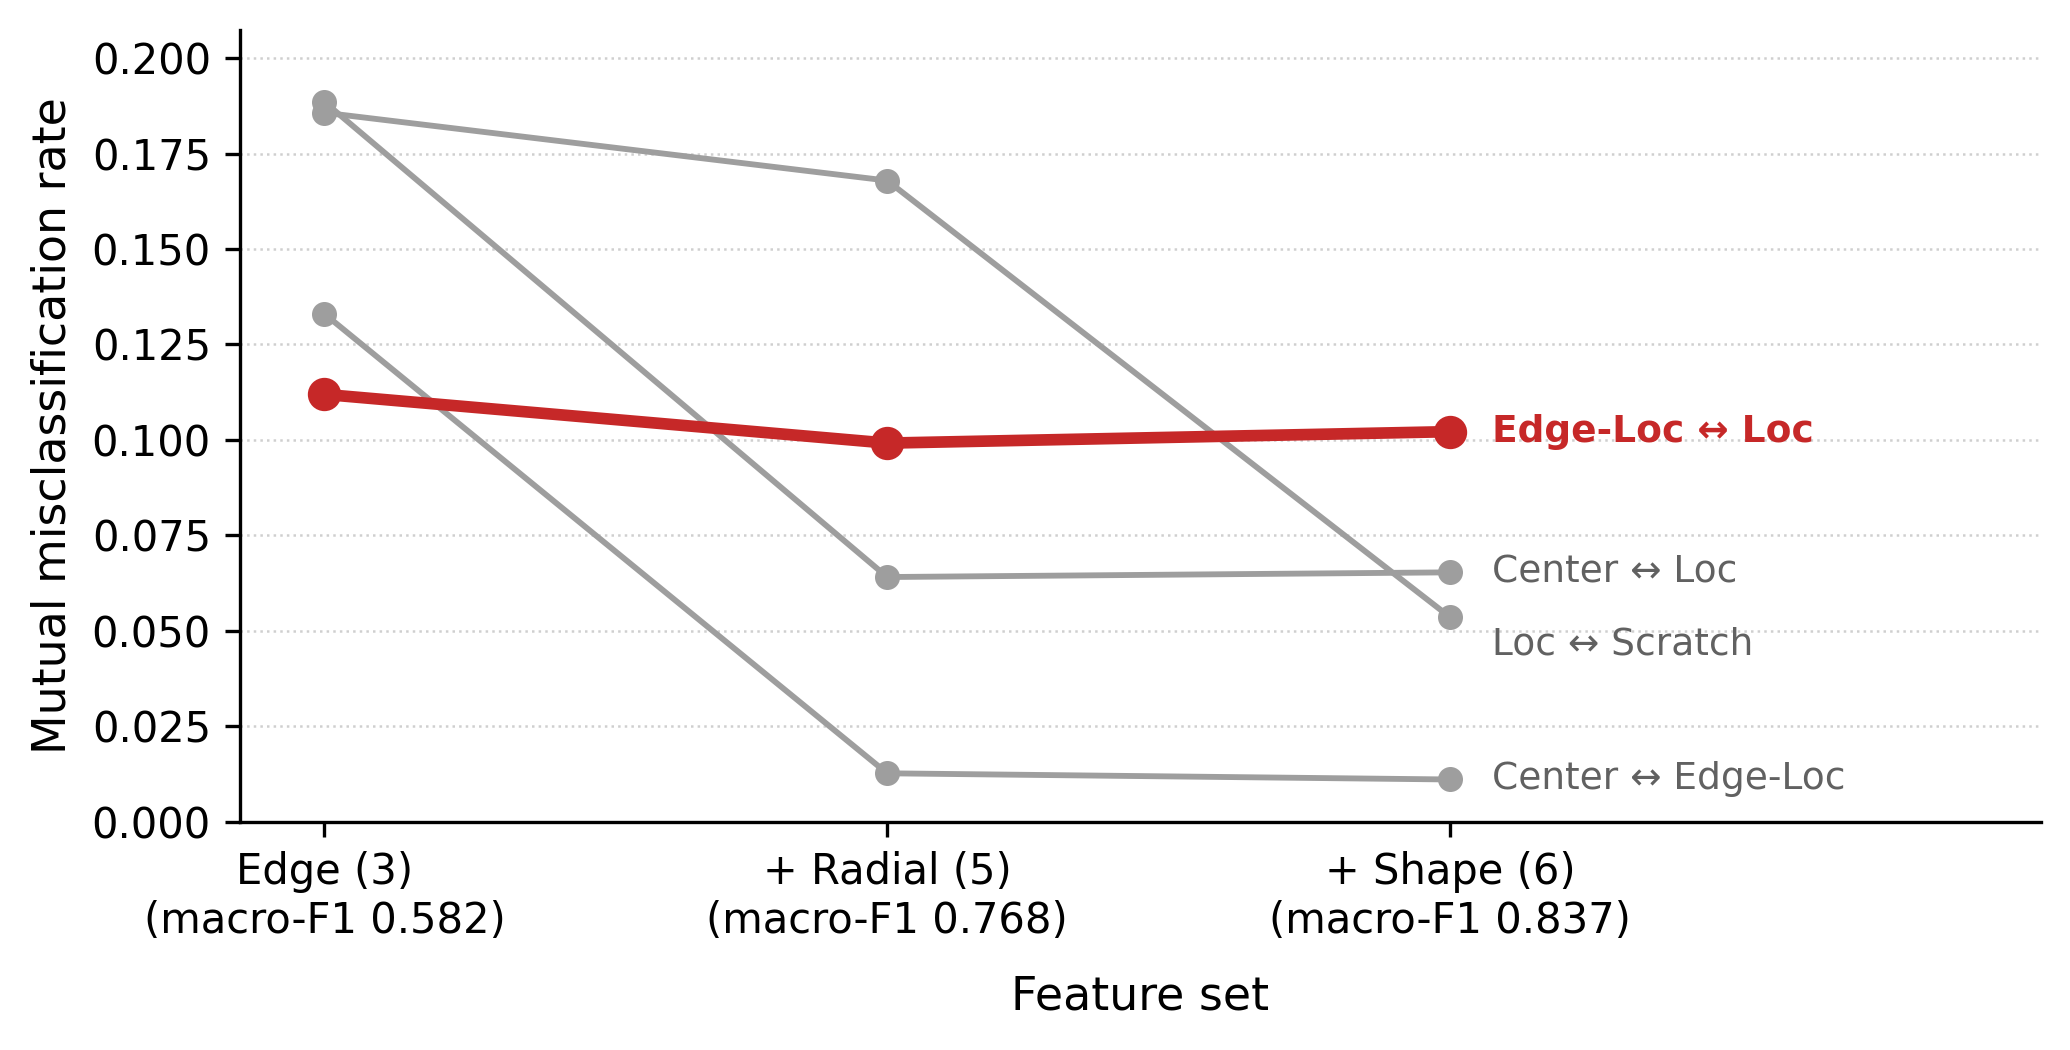
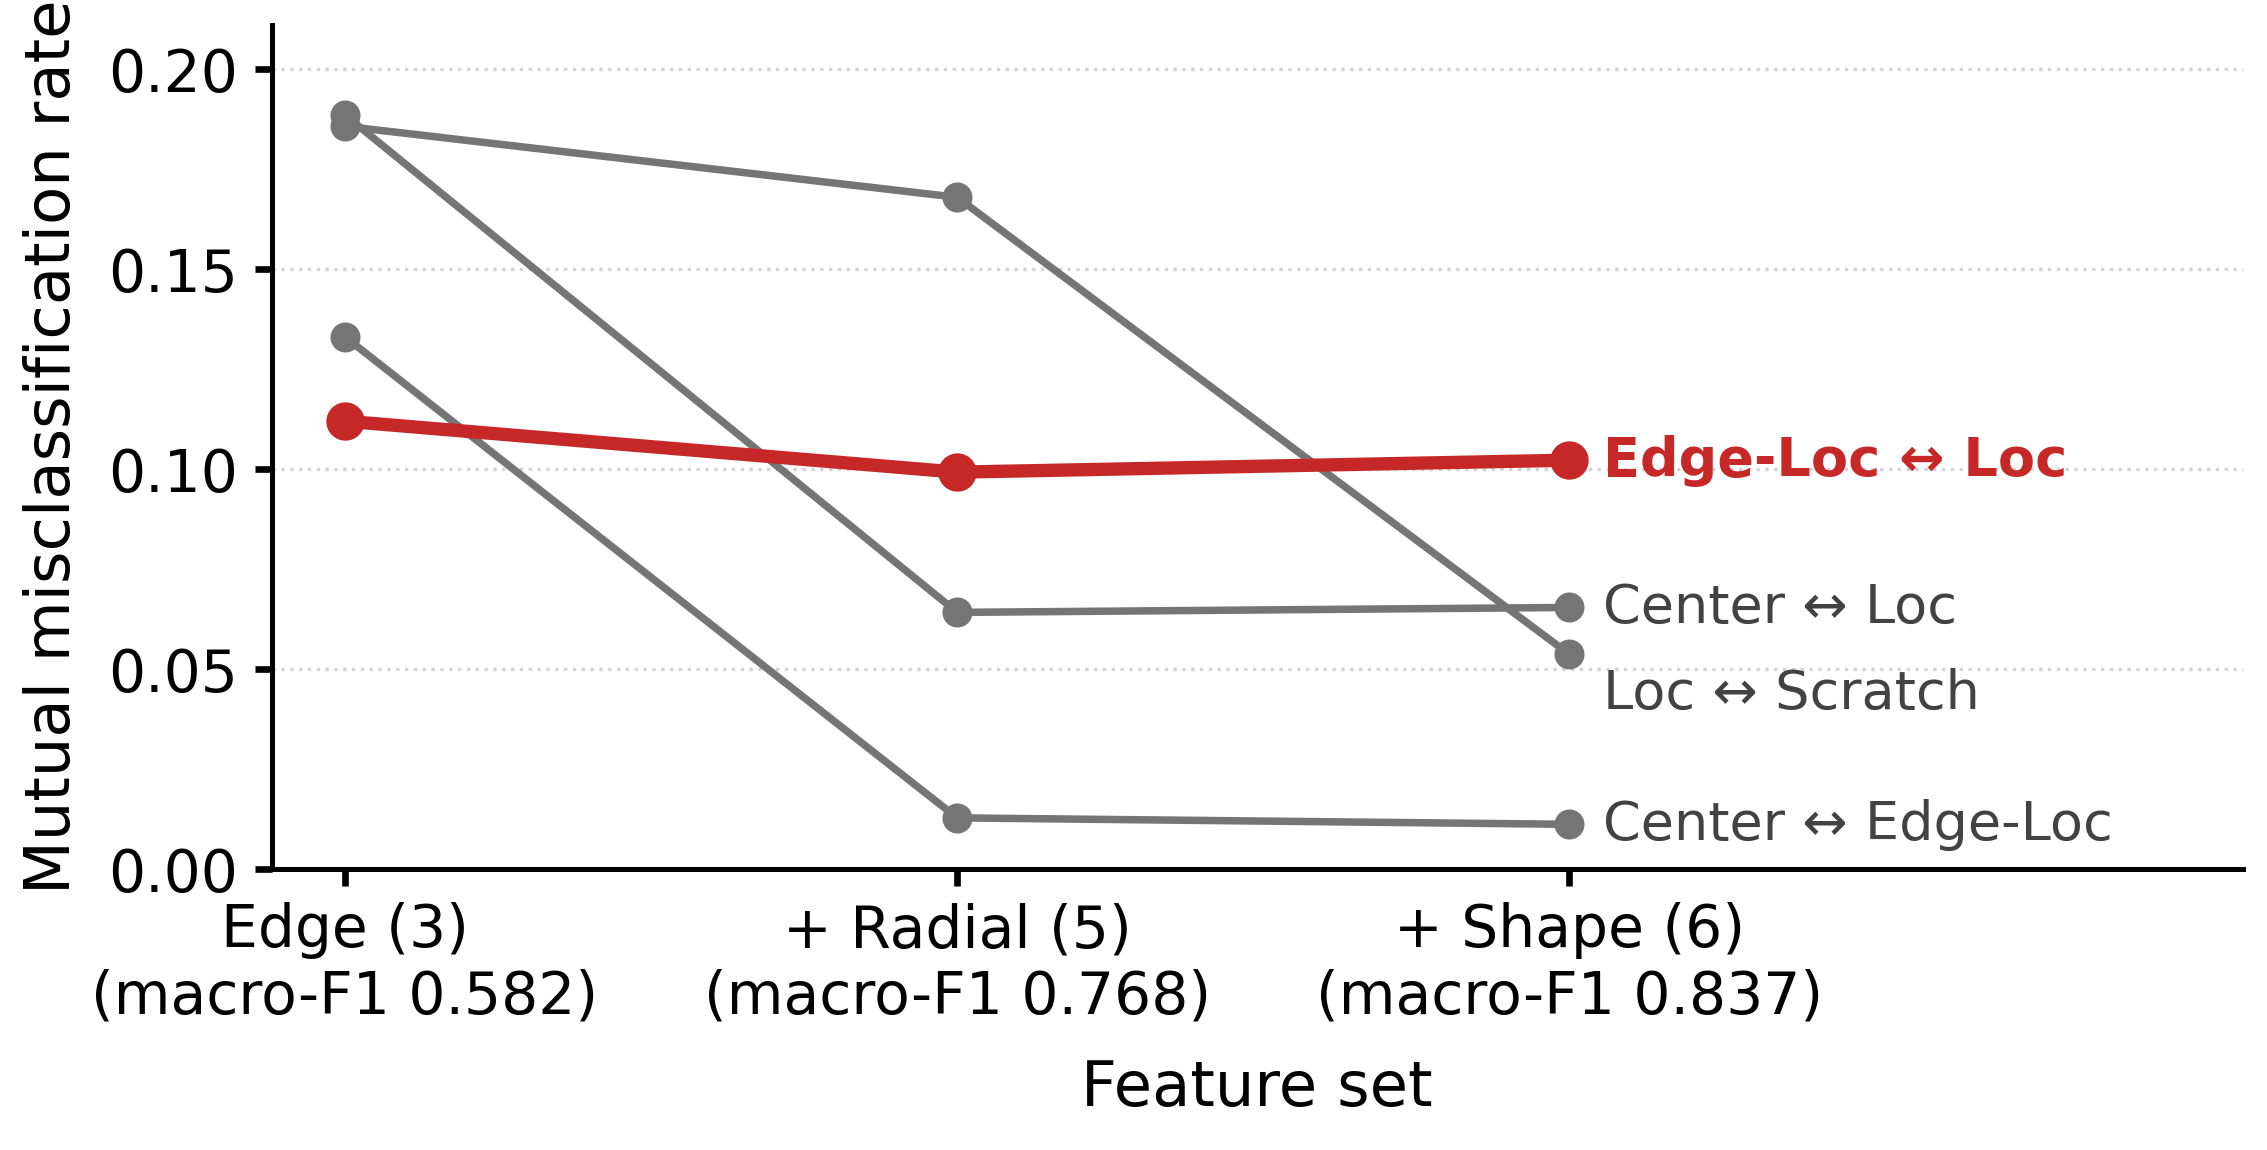
fig: Figure 1을 최종 인쇄 치수로 다시 그려 라벨 4.9pt -> 6.5pt (지면 점유 동일)
PDF는 읽혔지만 원인을 따지니 figsize=(7.0,3.6)을 DOC에 9.6cm로 넣어 축소율 0.548이 걸려 있었다. 코드의 fontsize=9가 종이에서는 4.9pt였다 - 로드맵 4장이 '눈금 5pt 가독'을 확인 항목으로 남긴 것이 이 지점이다.

해법은 폰트를 키우는 게 아니라 캔버스를 인쇄 치수(9.6 x 4.87 cm)로 잡아 축소율을 1로 만드는 것이다. 좌표계를 맞춘 것이라 지면 점유는 1px도 늘지 않는다. 딸려온 것: bbox_inches='tight' 제거(저장 폭 = figsize x dpi 보장), 선 굵기/마커 하향(축소율 1이면 lw도 절대 pt), y눈금 9->5개, dpi 300->600.

넣었다 뺀 것: 강조선 끝의 0.102 값 라벨. 굵은 쌍 이름 바로 위에 놓여 둘이 한 덩어리로 읽혔다. 좁은 그림에서 요소를 더하는 것은 가독성을 깎는다 - 이 그림의 주장은 숫자가 아니라 '한 선만 평평하다'다.

일반화된 교훈: 라벨 간격이 ymax*0.075라는 데이터 비율이었는데 캔버스를 줄이자 6.9pt가 되어 Center-Loc과 Loc-Scratch 라벨이 붙었다. 비율은 크기가 바뀌면 따라오지 않는다 -> transData로 pt를 데이터 단위로 환산하도록 변경.

결과: 수치 전부 동일(0.582/0.768/0.837). bottleneck_shift.txt가 무변경으로 남은 것이 그 증거다 - 그림만 바뀌었고 주장은 그대로다. 제출본에는 아직 미반영(마감 10/23 전 수정 가능).

docs: D-019의 '이유'를 사용자 근거로 채웠다 - AI 추정이 틀린 종류였다

v4.1까지 적혀 있던 추정은 '이력서 서술은 어느 쪽이든 같으니 채택 확률만 낮아진다'는 기대값 계산이었다. 실제 근거는 심사 기준과의 정합성이다: 랩 단위 과제가 아니라 공개 데이터만으로 사고 과정을 재현한 연구이므로, 자원 규모로 비교되는 일반 세션이 아니라 판단 과정을 보는 학부생 포스터세션에서 평가받는 것이 맞다.

전자는 '질 것 같아서 쉬운 쪽으로 갔다'로, 후자는 '평가 기준을 먼저 보고 자리를 골랐다'로 읽힌다. 면접에서 정반대로 작동한다. '근거를 못 쓰면 임의값'이라는 원칙이 세션 선택에도 적용된 사례로 기록했다.

diff --git a/src/fig_bottleneck.py b/src/fig_bottleneck.py
@@ -21,22 +21,51 @@
 - **`Edge-Loc↔Loc`만 강조**, 나머지는 흐리게. 그 하나가 결론이므로
 - **축 라벨은 영문** (로드맵 §4)
 
+## 크기 — 최종 인쇄 치수로 그린다 (2026-08-20 개정)
+
+**이전 판은 `figsize=(7.0, 3.6)`으로 그려 DOC에 9.6 cm(=3.78 in) 폭으로 넣었다.**
+축소율이 **0.548**이라 코드의 pt가 그대로 인쇄되지 않았다 —
+끝점 라벨 9 pt → **실제 4.9 pt**, 눈금 10 pt → 5.5 pt.
+로드맵 §4가 *"그림 눈금 5pt 가독"*을 확인 항목으로 남긴 것이 이 지점이다.
+
+**해법은 폰트를 키우는 게 아니라 캔버스를 최종 치수로 잡는 것이다.**
+`figsize = (9.6cm, 4.87cm)`로 그리면 축소율이 1이 되고,
+**지면 점유는 그대로인 채 코드의 pt = 인쇄 pt**가 된다.
+같은 9.6 cm 안에서 끝점 라벨이 4.9 → 6.5 pt, 눈금이 5.5 → 7 pt로 커진다.
+
+두 가지가 여기에 딸려 온다.
+
+1. **`bbox_inches="tight"`를 쓰지 않는다.** 내용에 맞춰 잘라내면 저장된 폭이
+   `figsize`와 달라져 *"100%로 넣는다"*는 전제가 깨진다. `tight_layout`만 쓰고
+   그대로 저장해 **출력 픽셀 = figsize × dpi**를 보장한다.
+   끝점 라벨은 `xlim` 오른쪽 여백 안에 들어가므로 잘리지 않는다.
+2. **선 굵기·마커도 절대 pt다.** 축소율이 1이 되면 `lw=2.8`은 그대로 2.8 pt라
+   작은 그림에서 과하다. 굵기와 마커를 같이 내린다.
+
+**dpi는 600.** 작은 글자는 300 dpi에서 획이 뭉친다. 파일은 커지지만
+제출 제약은 **문서 2 MB**이고 PNG는 그 안에서 여유가 있다.
+
 ## 재현성
 
 수치를 하드코딩하지 않고 **캐시된 특징 + D-003 분할에서 매번 다시 계산한다.**
 seed 3개 평균이며, 같은 값이 `docs/abstract_draft.md`와 D-018에 인용돼 있다.
 → 그림과 본문 숫자가 갈라질 수 없다.
 """
+import sys
 import numpy as np
 import matplotlib
 matplotlib.use("Agg")
 import matplotlib.pyplot as plt
+from matplotlib.ticker import MultipleLocator
 from sklearn.ensemble import RandomForestClassifier
 from sklearn.metrics import confusion_matrix, f1_score
 
 import config
 
 plt.rcParams["font.family"] = "DejaVu Sans"      # 영문 라벨만 쓴다
+# Windows 콘솔은 cp949다. 출력을 파일로 넘기면 아래 한글 print가
+# UnicodeEncodeError로 죽는다 — 그림은 이미 저장된 뒤라 더 헷갈린다
+sys.stdout.reconfigure(encoding="utf-8", errors="replace")
 
 STAGES = [
     ("Edge (3)",      ("cov", "ctr", "cv")),
@@ -49,6 +78,16 @@ SHOW = [("Center", "Loc"), ("Loc", "Scratch"),
 HILITE = ("Edge-Loc", "Loc")
 
 OUT_DIR = config.ROOT / "figures" / "keep"
+
+# ── 인쇄 치수 — 여기가 이 그림의 유일한 크기 근거다 ──────────
+# 9.6 cm는 D-020에서 1페이지 실측으로 확정된 값이다. 바꾸지 않는다.
+# 높이는 이전 판의 지면 점유(9.6 × 1050/2070)를 그대로 유지한다.
+CM = 1 / 2.54
+PRINT_W_CM, PRINT_H_CM = 9.6, 4.87
+DPI = 600
+
+# 전부 인쇄 pt다 — 축소율이 1이므로 코드 값 = 종이 위 값
+FS_TICK, FS_AXIS, FS_LABEL, FS_XTICK = 7.0, 7.5, 6.5, 6.8
 
 
 def oof(X, y, folds):
@@ -105,21 +144,57 @@ def main():
 
     # ── 그림 ──────────────────────────────────────────────
     # 세로를 줄였다 — 초록은 텍스트가 대부분이라 그림이 납작해야 한다
-    fig, ax = plt.subplots(figsize=(7.0, 3.6))
+    fig, ax = plt.subplots(figsize=(PRINT_W_CM * CM, PRINT_H_CM * CM))
     xs = np.arange(len(STAGES))
     ymax = max(max(v) for v in rates.values())
 
+    # 회색을 이전 `#9e9e9e`보다 어둡게 잡는다 — 선이 얇아지면 같은 명도라도
+    # 종이에서 옅어 보인다. 강조 대비는 굵기가 이미 충분히 만든다
     for pr in SHOW:
         hot = pr == HILITE
         ax.plot(xs, rates[pr], "o-",
-                lw=2.8 if hot else 1.4, ms=7 if hot else 5,
-                color="#c62828" if hot else "#9e9e9e",
+                lw=1.6 if hot else 0.9, ms=3.6 if hot else 2.6,
+                color="#c62828" if hot else "#757575",
                 zorder=3 if hot else 2)
 
-    # 끝점 라벨 — 겹치면 세로로 밀어낸다.
+    # 값을 점 위에 찍어보고 **뺐다.** 강조 라벨 바로 위에 놓여 둘이 한 덩어리로
+    # 읽혔다. 좁은 그림에서 요소를 더하는 것은 가독성을 깎는다 —
+    # 잔여 병목의 크기는 y축 0.10 격자선이 이미 말해주고, 정확한 값은 본문에 있다.
+    # **이 그림의 주장은 숫자가 아니라 "한 선만 평평하다"다.**
+
+    # macro-F1을 x축 눈금 둘째 줄로 — 아래 여백을 먹지 않는다
+    ax.set_xticks(xs)
+    ax.set_xticklabels([f"{n}\n(macro-F1 {m:.3f})" for (n, _), m in zip(STAGES, macros)],
+                       fontsize=FS_XTICK)
+    # y 눈금을 9개에서 5개로 — 작은 그림에서 눈금 글자끼리 붙으면
+    # 개별 숫자가 커져도 덩어리로 읽힌다. 간격이 곧 가독성이다
+    ax.yaxis.set_major_locator(MultipleLocator(0.05))
+    ax.tick_params(labelsize=FS_TICK, length=2, pad=2)
+    ax.set_xlim(-0.12, len(STAGES) - 1 + 1.10)
+    ax.set_ylim(0, ymax * 1.12)
+    ax.set_xlabel("Feature set", fontsize=FS_AXIS, labelpad=4)
+    ax.set_ylabel("Mutual misclassification rate", fontsize=FS_AXIS, labelpad=3)
+    ax.grid(axis="y", ls=":", lw=0.4, alpha=0.55)
+    for sp in ("top", "right"):
+        ax.spines[sp].set_visible(False)
+    for sp in ("left", "bottom"):
+        ax.spines[sp].set_linewidth(0.6)
+
+    fig.tight_layout(pad=0.3)
+
+    # ── 끝점 라벨 — 레이아웃이 확정된 뒤에 놓는다 ───────────────
+    # 겹칠 때 밀어낼 간격은 **글자 크기에서 나와야 한다.**
+    # 이전 판은 `MIN_GAP = ymax * 0.075`라는 데이터 비율이었다. 캔버스를
+    # 인쇄 치수로 줄이자 같은 비율이 6.9 pt가 되어 `Center↔Loc`과
+    # `Loc↔Scratch`가 붙었다 — **비율은 크기가 바뀌면 따라오지 않는다.**
+    # 그려진 축에서 pt를 데이터 단위로 환산한다. 치수를 다시 바꿔도 유지된다.
+    fig.canvas.draw()
+    inv = ax.transData.inverted()
+    gap_px = FS_LABEL * 1.45 * fig.dpi / 72          # 행간 1.45배
+    MIN_GAP = abs(inv.transform((0, gap_px))[1] - inv.transform((0, 0))[1])
+
     # 구분자는 '↔'다. 클래스명에 하이픈이 있어 '–'를 쓰면
     # `Center–Edge-Loc`처럼 읽혀 쌍인지 이름인지 구분되지 않는다.
-    MIN_GAP = ymax * 0.075
     placed, y_lab = [], {}
     for pr in sorted(SHOW, key=lambda p: -rates[p][-1]):   # 위에서 아래로
         yv = rates[pr][-1]
@@ -131,27 +206,16 @@ def main():
     for pr in SHOW:
         hot = pr == HILITE
         ax.annotate(f"{pr[0]} ↔ {pr[1]}", (xs[-1], y_lab[pr]),
-                    xytext=(10, 0), textcoords="offset points",
-                    va="center", fontsize=9, annotation_clip=False,
-                    color="#c62828" if hot else "#616161",
+                    xytext=(4, 0), textcoords="offset points",
+                    va="center", fontsize=FS_LABEL, annotation_clip=False,
+                    color="#c62828" if hot else "#424242",
                     fontweight="bold" if hot else "normal")
 
-    # macro-F1을 x축 눈금 둘째 줄로 — 아래 여백을 먹지 않는다
-    ax.set_xticks(xs)
-    ax.set_xticklabels([f"{n}\n(macro-F1 {m:.3f})" for (n, _), m in zip(STAGES, macros)],
-                       fontsize=10)
-    ax.set_xlim(-0.15, len(STAGES) - 1 + 1.05)
-    ax.set_ylim(0, ymax * 1.10)
-    ax.set_xlabel("Feature set", fontsize=11, labelpad=8)
-    ax.set_ylabel("Mutual misclassification rate", fontsize=11)
-    ax.grid(axis="y", ls=":", lw=0.6, alpha=0.6)
-    for sp in ("top", "right"):
-        ax.spines[sp].set_visible(False)
-
-    fig.tight_layout()
     out = OUT_DIR / "bottleneck_shift.png"
-    fig.savefig(out, dpi=300, bbox_inches="tight")
-    print(f"저장: {out}")
+    # bbox_inches="tight"를 쓰지 않는다 — 저장 폭 = figsize × dpi여야
+    # DOC에 9.6 cm로 넣었을 때 축소율이 정확히 1이 된다
+    fig.savefig(out, dpi=DPI)
+    print(f"저장: {out}  ({PRINT_W_CM} × {PRINT_H_CM} cm @ {DPI} dpi, 축소율 1.0)")
     print("\n  읽는 법: 세 선은 내려가고 **강조된 한 선만 평평하다.**")
     print("  그 하나가 D-018의 결론 — 남은 병목은 특징 부재가 아니라")
     print("  두 패턴 사이에 경계가 없어서 남는다.")

diff --git a/docs/decisions.md b/docs/decisions.md
@@ -1008,17 +1008,35 @@ Center 1.08로 **차이가 없었다.** 배경 산발이 주축을 등방으로 
   - (A) **일반 트랙** — 교수 연구실 과제들과 같은 심사 풀에 들어간다
   - (B) **학부생 포스터세션** — 학부생 대상 분과별 별도 심사
 - 선택: **B**
-- 이유: **(미기재 — 사용자 근거로 교체할 것.)** 2026-08-20 대화에서 사용자는
-  *"지도교수 컨택을 하더라도 학부생 세션으로 지원하겠다"*고 확정했으나
-  **내부 근거를 아직 받지 못했다.** 아래는 AI 추정이며 **그대로 면접에서 쓰면 안 된다**:
-  단독·학부생 연구를 일반 트랙에 넣으면 랩 단위 과제와 같은 잣대로 심사받고,
-  이력서 서술은 어느 쪽이든 "학술대회 발표"로 동일하다 → 채택 확률만 낮아진다.
-- 버린 이유: (A)는 채택될 경우 구두 발표 가능성이 있고 "일반 세션 통과"라는
-  서술이 더 세다. **(미기재 — 확인 필요)**
+- 이유: **(2026-08-20 사용자 근거로 확정)**
+  이 연구는 **랩 단위 과제가 아니다.** 장비도 사내 데이터도 없이 **공개 데이터셋
+  하나만으로**, 엔지니어링 사고 과정 자체를 재현하는 데 집중해 혼자 진행했다.
+  **그렇다면 평가받아야 할 것도 그 사고 과정이다.**
+  일반 세션은 연구실 과제들과 같은 풀에서 겨루는 자리이고, 그 자리의 잣대는
+  **자원(장비·데이터·인력)이 뒷받침하는 결과의 크기**다. 이 프로젝트의 실질
+  ─ *"병목이 어디로 왜 이동했는지 안다"*(D-018) ─ 은 그 잣대에서는 보이지 않는다.
+  **학부생 포스터세션이 이 연구의 성격에 맞는 심사 기준을 가진 자리다.**
+  → 세션 선택은 **채택 가능성 계산이 아니라 평가 기준과의 정합성 판단**이다.
+
+  > ⚠ **AI 추정이 틀린 종류였다 — 기록으로 남긴다.**
+  > v4.1까지 이 칸에 적혀 있던 추정은 *"어느 쪽이든 이력서 서술은 같으니
+  > 채택 확률만 낮아진다"*, 즉 **기대값 계산**이었다.
+  > 사용자의 실제 근거는 **심사 기준의 정합성**으로 층이 다르다.
+  > 전자는 *"질 것 같아서 쉬운 쪽으로 갔다"*로 읽히고, 후자는 *"평가 기준을
+  > 먼저 보고 자리를 골랐다"*로 읽힌다. **면접에서 이 둘은 정반대로 작동한다.**
+  > §3의 *"근거를 못 쓰면 임의값"*이 세션 선택에도 그대로 적용된 사례다.
+- 버린 이유: (A) 일반 세션은 채택되면 구두 발표 가능성이 있고 *"일반 세션 통과"*라는
+  서술이 더 세다. **그러나 그 서술의 값은 심사 기준이 맞을 때만 성립한다.**
+  자원 규모로 비교되는 풀에서 단독·공개데이터 연구가 통과하면 그건 운이고,
+  떨어지면 **왜 떨어졌는지가 남지 않는다** — 이 프로젝트가 얻으려는 것은
+  통과 자체가 아니라 *"어떤 기준으로 평가받았는가"*다
 - 뒤집을 조건: **없다.** 지도교수를 컨택해 공저자가 생겨도 B를 유지한다
   (2026-08-20 사용자 확정). **단 그 경우 교신저자 배정은 다시 정해야 한다** —
   폼상 교신저자는 최대 2명, 발표자는 1명이고 현재는 둘 다 본인이다
-- 면접 한 줄: **(위 「이유」가 채워진 뒤에 쓴다.)**
+- 면접 한 줄: *"랩 과제가 아니라 공개 데이터만으로 혼자 한 연구였습니다. 연구실
+  과제들과 자원 규모로 비교되는 일반 세션보다, 판단 과정을 보는 학부생 세션이
+  이 연구를 제대로 평가받는 자리라고 봤습니다. **세션도 평가 기준을 보고
+  골랐습니다.**"*
 
 ---
 
@@ -1073,6 +1091,35 @@ Center 1.08로 **차이가 없었다.** 배경 산발이 주축을 등방으로 
 
 - 산출물: `planning/초록_초안_v2.DOC` (174KB) · `planning/초록_초안_v2.pdf` (210KB) ·
   변경 내역 `planning/초록_v2_변경내역.txt`. **원본 `초록 초안.DOC`는 보존**
+
+### 부기 (2026-08-20) — 그림을 **최종 인쇄 치수로 그리도록** 고쳤다
+
+**결정(9.6cm)은 그대로다. 바뀐 것은 그리는 방법이다** — 그래서 D 번호를 새로 붙이지 않는다.
+
+PDF 실물을 확인하니 읽히기는 했으나, 원인을 따져보니 **의도한 크기로 인쇄되고 있지
+않았다.** `fig_bottleneck.py`는 `figsize=(7.0, 3.6)`으로 그렸고 DOC에는 9.6cm(3.78in)로
+넣었다 → **축소율 0.548.** 코드의 `fontsize=9`가 종이에서는 **4.9 pt**였다.
+로드맵 §4의 확인 항목 *"그림 눈금 5pt 가독"*이 정확히 이 지점을 가리키고 있었다.
+
+- **고친 방식**: 캔버스를 `9.6 × 4.87 cm`로 잡아 **축소율을 1로 만든다.**
+  폰트를 키운 게 아니라 **좌표계를 맞춘 것**이라 지면 점유는 1 px도 늘지 않는다.
+  같은 자리에서 끝점 라벨 4.9 → **6.5 pt**, 눈금 5.5 → **7.0 pt**.
+- **딸려온 것**: `bbox_inches="tight"` 제거(저장 폭 = `figsize × dpi` 보장) ·
+  선 굵기/마커 하향(축소율 1이면 `lw`도 절대 pt다) · y눈금 9 → 5개 · dpi 300 → 600.
+- **넣었다 뺀 것**: 강조선 끝에 `0.102` 값 라벨. 굵은 쌍 이름 바로 위에 놓여
+  **둘이 한 덩어리로 읽혔다.** 좁은 그림에서는 요소를 더하는 것이 가독성을 깎는다.
+  값은 본문에 있고, **이 그림의 주장은 숫자가 아니라 "한 선만 평평하다"**이다.
+- **일반화된 교훈**: 겹친 라벨을 밀어내는 간격이 `ymax * 0.075`라는 **데이터 비율**이었다.
+  캔버스를 줄이자 같은 비율이 6.9 pt로 좁아져 `Center↔Loc`과 `Loc↔Scratch`가 붙었다.
+  **비율은 크기가 바뀌면 따라오지 않는다** → `transData`로 pt를 데이터 단위로 환산해
+  간격을 글자 크기에서 유도하도록 바꿨다.
+- **재계산 결과 수치는 전부 동일**(0.582 / 0.768 / 0.837, `bottleneck_shift.txt` 대조).
+  **그림만 바뀌었고 주장은 그대로다.**
+- ⚠ **제출본에는 아직 반영되지 않았다.** 반영하려면
+  DOC 그림 교체 → **폭 9.6 cm 재설정** → PDF 재출력 → **1페이지 재실측** →
+  온라인 폼 재업로드. **마감(10/23) 전 수정 가능하므로 서두를 필요는 없다.**
+- 뒤집을 조건: 1페이지 실측이 깨지면 높이(4.87cm)를 먼저 줄인다. **폭 9.6cm는 D-020의
+  확정값이라 건드리지 않는다.**
 
 ---
 
